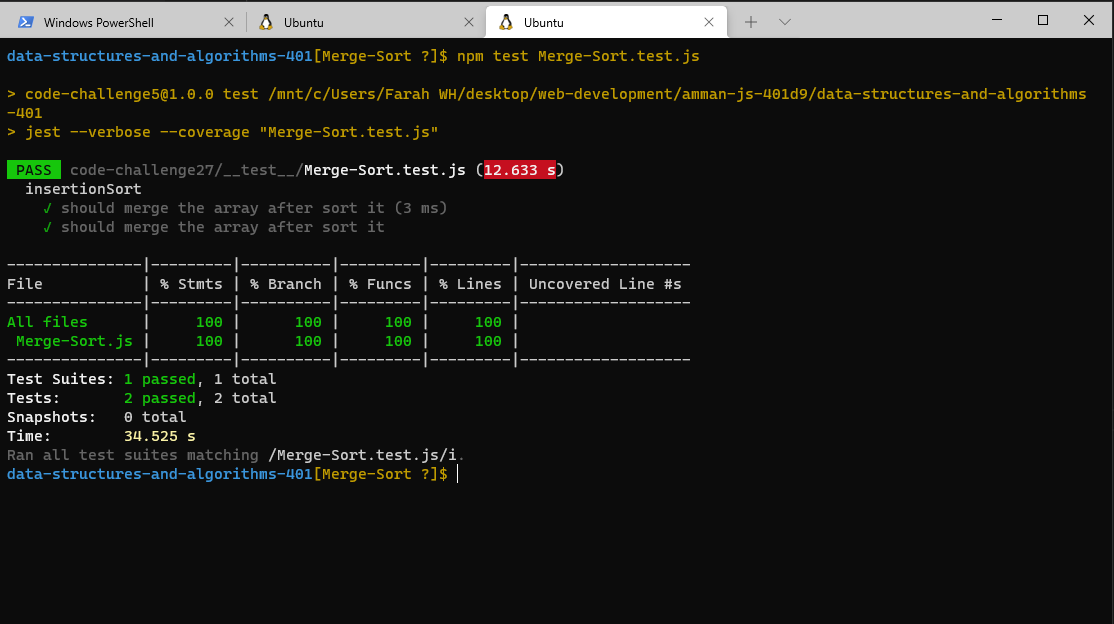
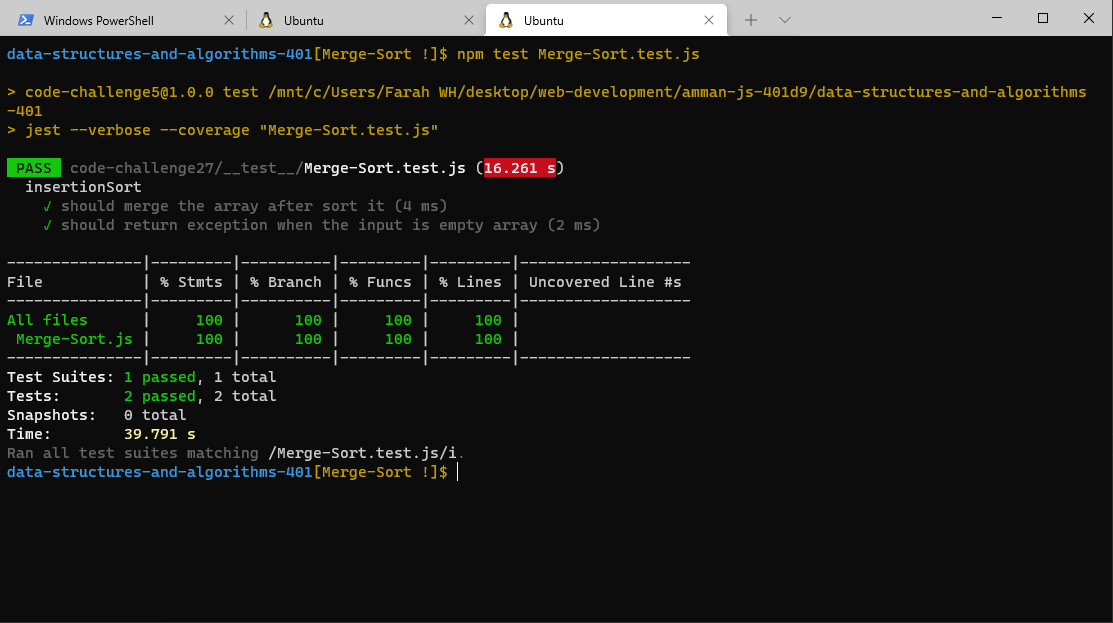
mergeSort

Changed region(s): [[0.0, 0.0, 1.0, 0.7929], [0.9775, 0.9759, 1.0, 1.0]]

diff --git a/code-challenge27/__test__/Merge-Sort.test.js b/code-challenge27/__test__/Merge-Sort.test.js
@@ -18,13 +18,14 @@ describe( 'insertionSort', () => {
     expect( sortedMergedArr ).toEqual( [ 4, 8, 15, 16, 23, 42 ] );
   } );
 
-  it( 'should merge the array after sort it', () => {
+  //for edge cases
+  it( 'should return exception when the input is empty array', () => {
     //arrange
-    let num =555;
+    let arr = [];
     //act
-    let sortedMergedArr= mergeSort( num );
+    let sortedMergedArr = mergeSort( arr );
     //assert
-    expect( sortedMergedArr ).toBe( num );
+    expect( sortedMergedArr ).toEqual( 'Exception' );
   } );
 
 } );

diff --git a/code-challenge27/Merge-Sort.js b/code-challenge27/Merge-Sort.js
@@ -2,6 +2,10 @@
 
 // ALGORITHM Mergesort(arr)
 function mergeSort ( arr ) {
+  //for edge cases
+  if ( arr.length===0 ) {
+    return 'Exception';
+  }
   // DECLARE n <-- arr.length
   let n = arr.length ;
   // if n > 1
